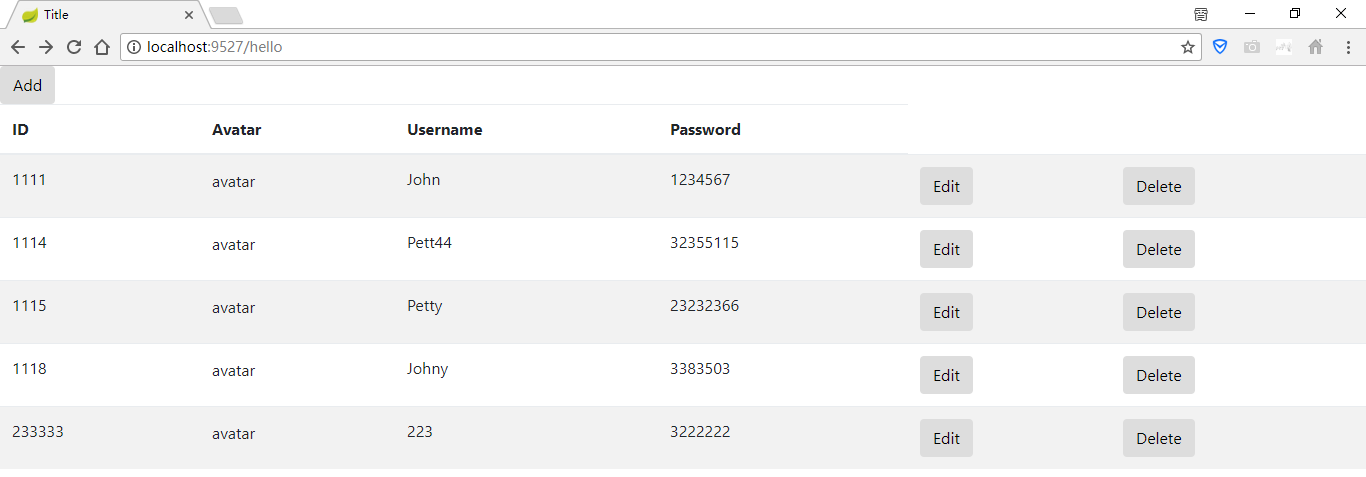
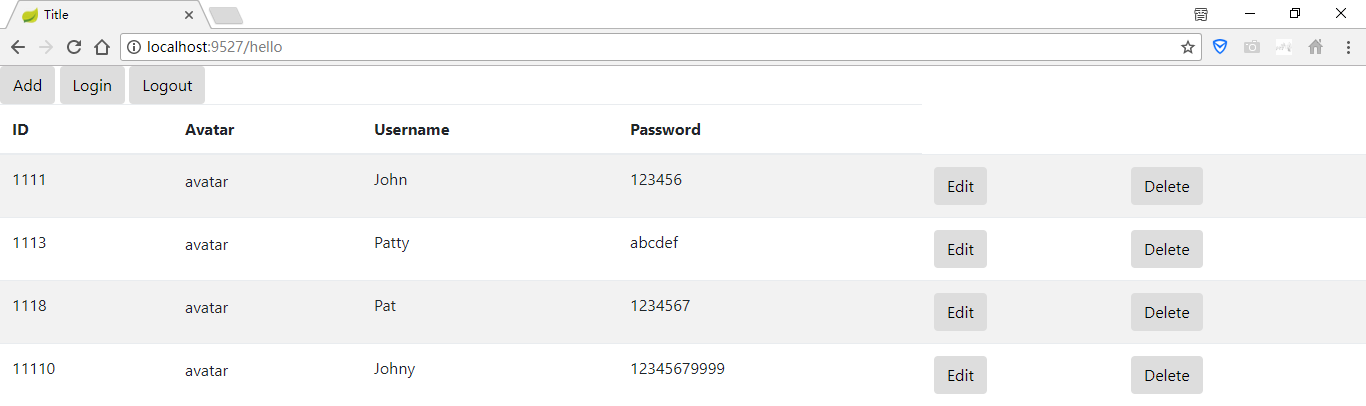
add and modify some screenshots

diff --git a/README.md b/README.md
@@ -1,5 +1,9 @@
 Practice of SpringBoot, Jquery, thymeleaf, ajax to implement a CRUD user list with update form and ajax check.
 
+![Alt text](https://github.com/Daemoonn/SpringBootListDemo/raw/master/Screenshots/login.png)
+
+![Alt text](https://github.com/Daemoonn/SpringBootListDemo/raw/master/Screenshots/nologin.png)
+
 ![Alt text](https://github.com/Daemoonn/SpringBootListDemo/raw/master/Screenshots/index.png)
 
 ![Alt text](https://github.com/Daemoonn/SpringBootListDemo/raw/master/Screenshots/add.png)
